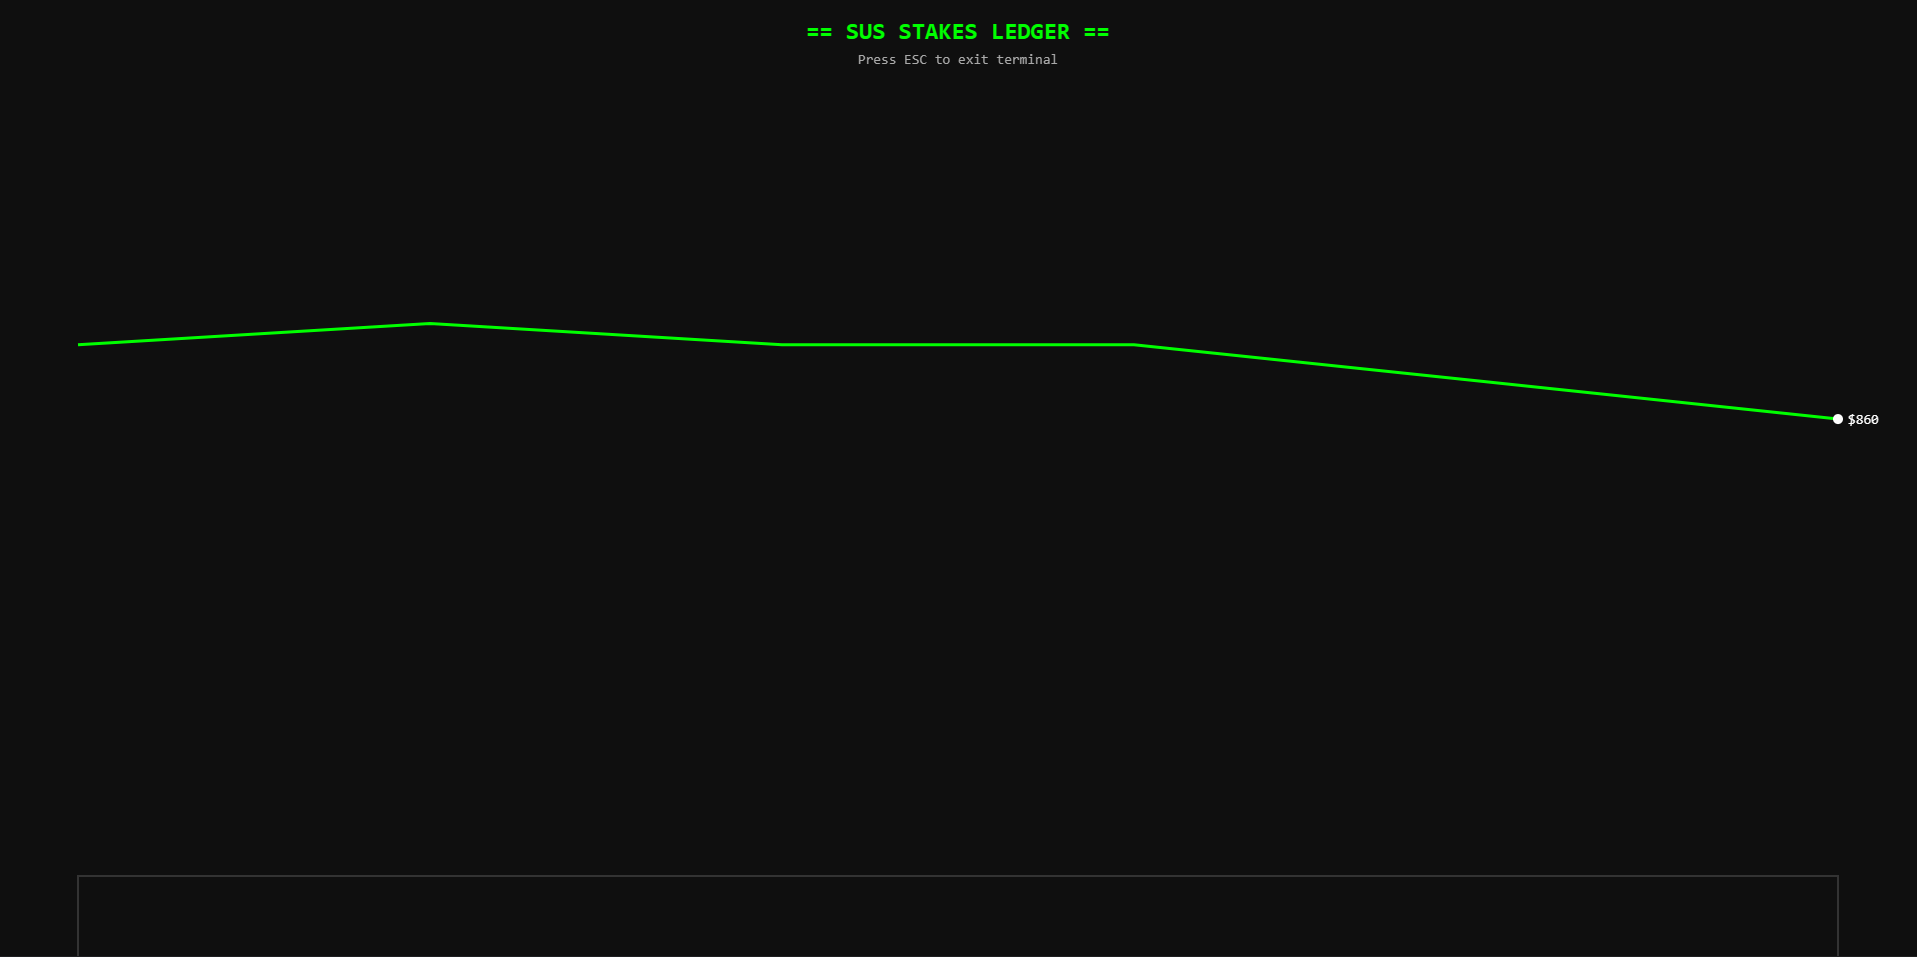
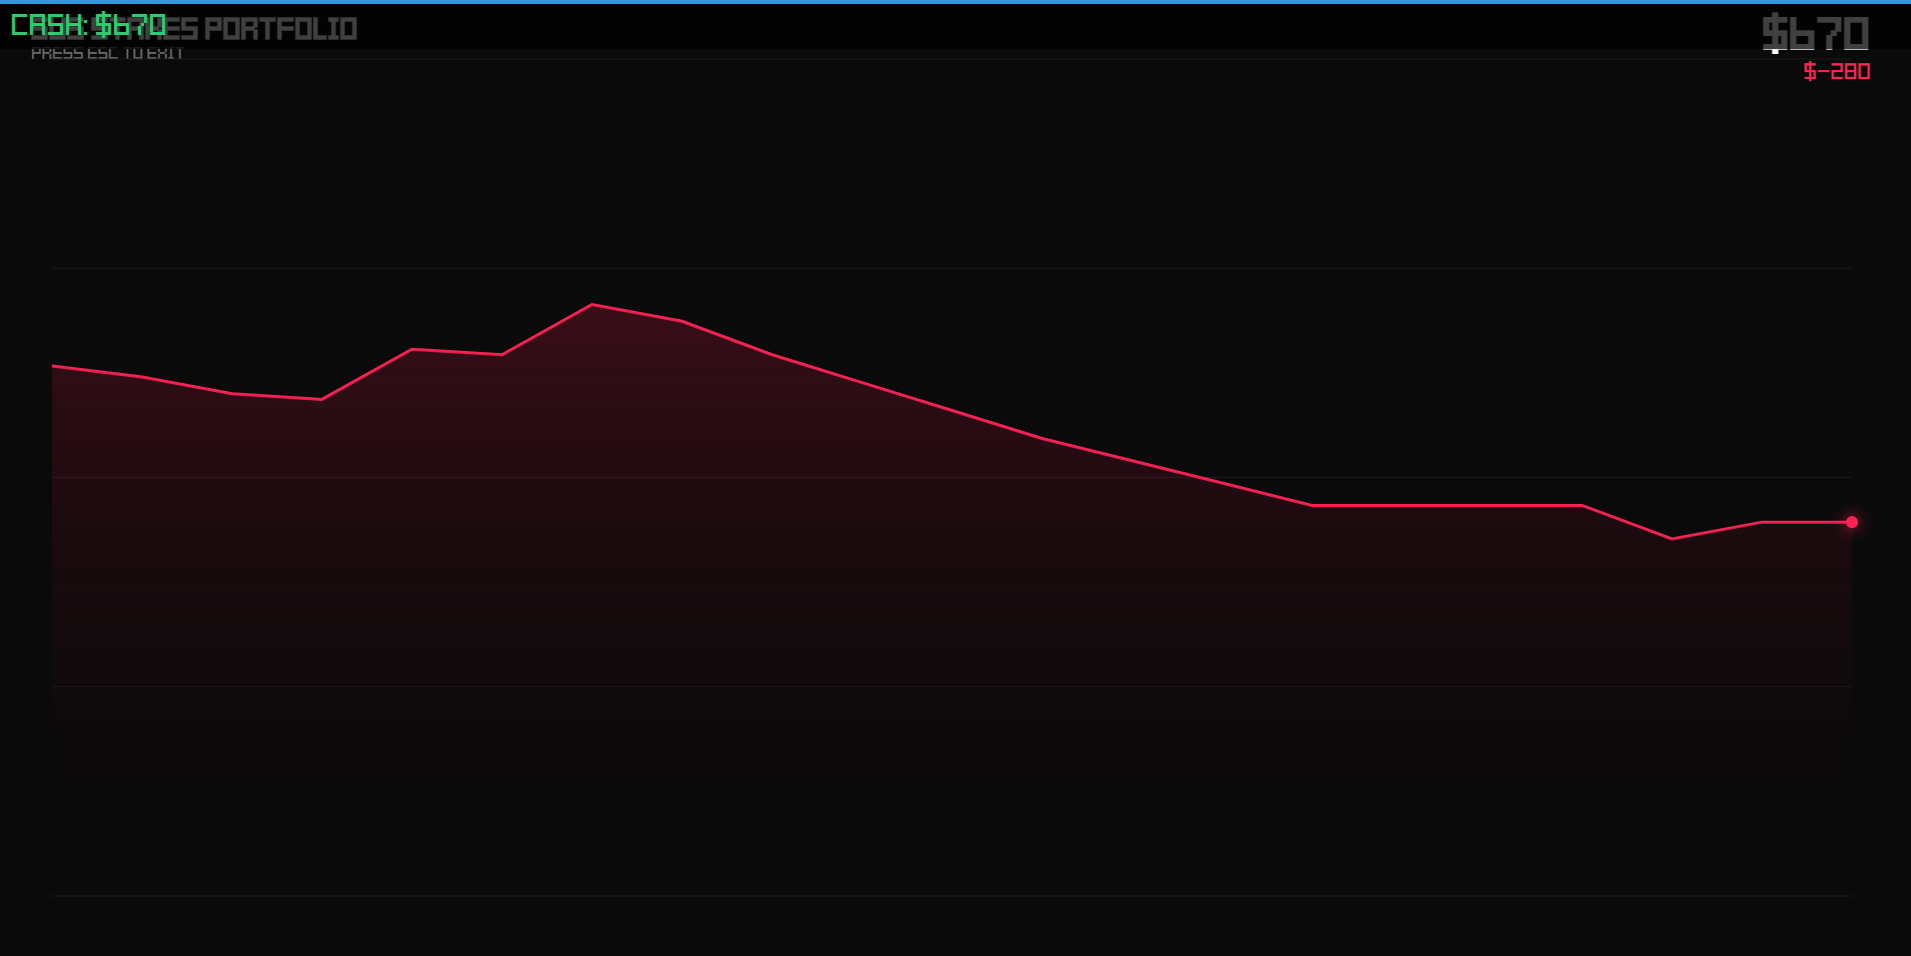
new readme and screenshots

diff --git a/README.md b/README.md
@@ -1,4 +1,59 @@
-# Sus-Stakes
-Sus Stakes
+# Sus Stakes
 
-A game based on gambling
+i love casino games so i built my own from scratch. walk around a 2d casino lobby, play 5 different minigames, and try not to go broke. everything saves to your browser. no frameworks, just vanilla js and canvas.
+
+built for **#horizons**
+
+**play it here:** https://fbiopeningupp.github.io/Sus-Stakes/
+
+> walk up to the BLACKJACK cabinet and press E to jump straight into a game!
+
+## screenshots
+
+![lobby](screenshots/casino.png)
+![blackjack](screenshots/blackjack.png)
+![slots](screenshots/slots.png)
+![poker](screenshots/poker.png)
+![ledger](screenshots/ledger.png)
+
+## how to play
+
+- **WASD** to move around the lobby
+- **E** to interact with a game cabinet
+- **ESC** to leave any minigame and go back to the lobby
+- **R** to wipe your save (hard reset)
+- earn **$25,000** to unlock the VIP room
+- if you go broke, find the **Loan Shark** in the bottom left corner for a $1k bailout
+
+## games
+
+| game | what it does |
+|------|-------------|
+| blackjack | full blackjack with hit, stand, split, and double down. press C to toggle a hidden card counting trainer that tracks the hi-lo running count |
+| roulette | this one has actual physics. the wheel and ball both have their own velocity and friction, the ball visually orbits and drops into a pocket based on real math, not just a random number |
+| slots | pull the lever and match symbols for payouts |
+| poker | texas hold'em against the house |
+| ledger | a terminal that draws a live stock-market style graph of your bankroll history over time. goes green when you're up, red when you're down |
+
+## how it works
+
+- custom scene manager runs a 60fps game loop and handles switching between the lobby and all minigames
+- AABB collision engine predicts player movement and blocks it if you'd clip into a wall or cabinet
+- roulette uses real angular velocity and friction, ball orbits using trig and drops into a pocket based on actual physics
+- blackjack supports splitting up to 4 hands, doubling down, and has a hidden card counting trainer that tracks hi-lo running count and true count
+- the ledger reconstructs your full bankroll history from saved transactions and draws a dynamic line graph that auto-scales
+- vip room is blocked by a coordinate-based forcefield that checks your bankroll in real time
+- all sounds are synthesized using web audio api oscillators with frequency ramps, no audio files
+- 15 NPCs wander the lobby with their own randomized movement AI
+- bankroll and transaction history persist to localStorage across sessions
+
+## built with
+
+- vanilla javascript (es6 modules, no frameworks)
+- html5 canvas api
+- web audio api
+- localStorage
+
+## ai usage
+
+used ai to help write rendering code and debug physics issues. all game design, features, and testing were done by me.